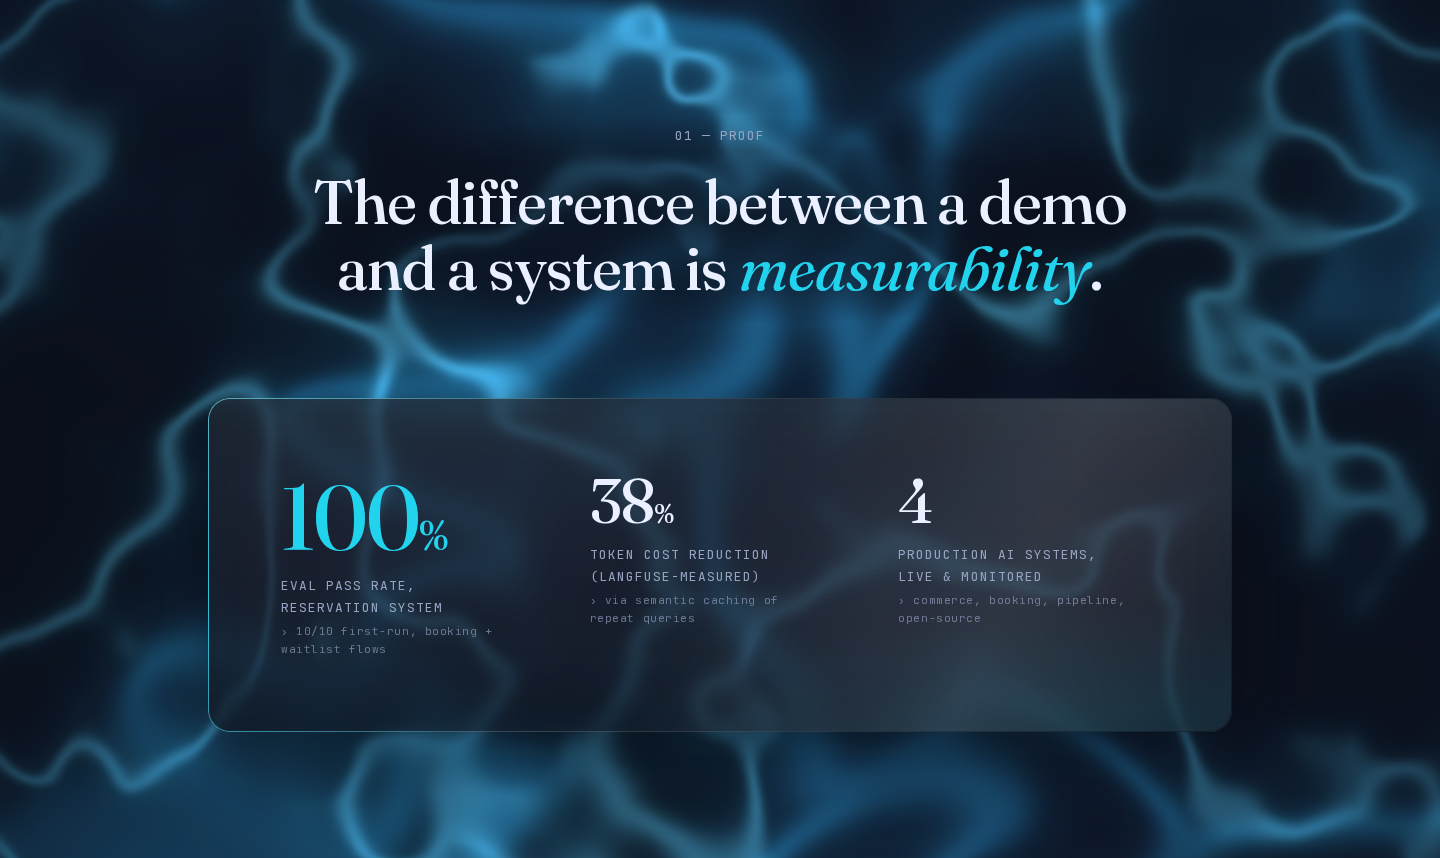
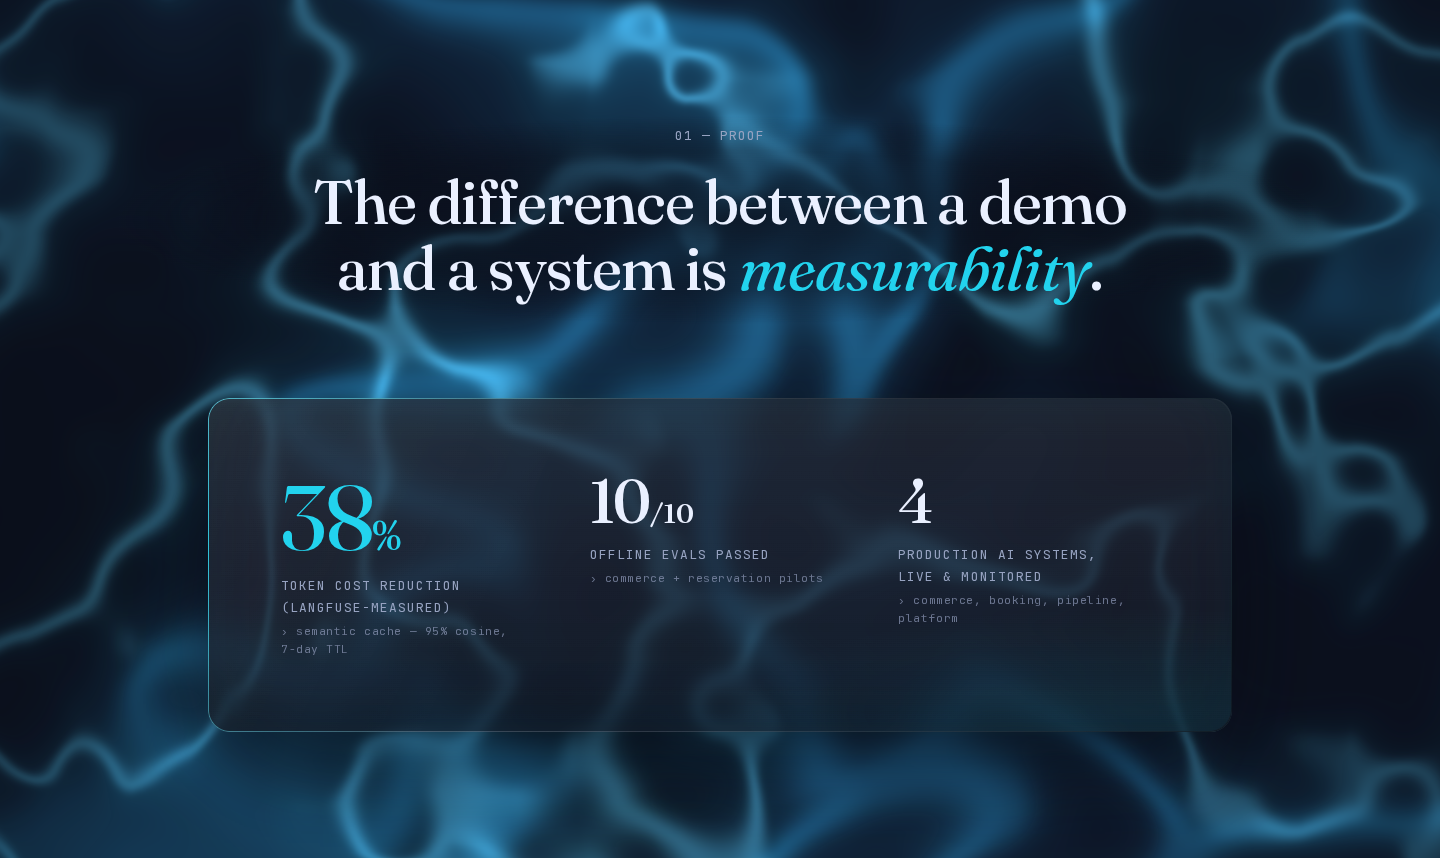
content(portfolio-dark): apply vault-approved copy — stack, work, proof, about
All defensible facts, generic names, no unverifiable numbers.

- STACK: expanded 5 rows -> 8 grouped rows (Languages / AI & RAG /
  Backend / Data & infra / Observability / Automation / Frontend /
  DevOps) with the substantial tools; dropped tiny utility libs and the
  "explored" tier. Claude + Langfuse stay the two cyan keystones.
- WORK: enriched each card with real specs, framed the two client cards
  as pilots. Card 1 metric -> "10/10 offline eval · Langfuse-traced"
  (no %), card 2 -> "10/10 offline eval · 0.646 avg retrieval" (10/10
  not 100%), card 3 five-stage pipeline detail, card 4 reframed as
  "Platform & Shared Core" (solo monorepo + CI) -> "38% token cost
  reduction · ~7.7k LOC Python, solo".
- PROOF: 38% is now the cyan LEAD (strongest defensible number);
  100% -> "10/10 offline evals passed" (no eval %); 4 production
  systems kept; 78/day already gone. Count-up handles 10 + "/10" suffix.
- ABOUT: bio now states CS student in Berlin, full-stack solo (Linux +
  Docker -> RAG/eval -> animated frontend), eval-first, multilingual
  interfaces (EN/DE/Urdu). Confident, no overclaiming.

Also removed an unused ScrollTrigger import in DarkAbout.

Verified: proof/work/stack/about recaptured 1440 + 375, 0 overflow,
0 console errors, tsc + eslint clean.

Changed region(s): [[0.1875, 0.5455, 0.3125, 0.7576], [0.4062, 0.6364, 0.5312, 0.7273], [0.4062, 0.5455, 0.5, 0.6061]]

diff --git a/src/components/portfolio-dark/DarkWork.tsx b/src/components/portfolio-dark/DarkWork.tsx
@@ -16,16 +16,15 @@ type CaseStudy = {
   link?: { label: string; href: string };
 };
 
-// VERIFY: humanized copy below supplied by Sherry (2026-07-09) — confirm
-// wording reads true before any public deploy.
+// Vault-approved copy (2026-07-12): defensible facts, generic names.
 const CASES: CaseStudy[] = [
   {
     index: "01",
     title: "Multilingual RAG Commerce Agent",
-    meta: "Private client · Commerce",
+    meta: "Client pilot · Commerce",
     description:
-      "The hard part was answering accurately across English, Urdu, and Roman Urdu from one knowledge base — a hybrid RAG pipeline with semantic caching, every response traced in Langfuse.",
-    metric: "38% lower cost per message · full observability",
+      "A WhatsApp sales agent on FastAPI with an HMAC-verified webhook, answering over a product catalog through RAG. A semantic cache (95% cosine, 7-day TTL + LRU) cuts repeat cost, every response is cost-traced in Langfuse, and it ships behind eval gates in CI.",
+    metric: "10/10 offline eval · Langfuse-traced",
     metricAccent: true,
     stack: ["Python", "FastAPI", "ChromaDB", "Claude", "Langfuse"],
     demo: "rag-commerce-agent",
@@ -33,10 +32,10 @@ const CASES: CaseStudy[] = [
   {
     index: "02",
     title: "Reservation System",
-    meta: "Hospitality · Booking platform",
+    meta: "Client pilot · Hospitality",
     description:
-      "Restaurants lose bookings after hours and to no-shows — this WhatsApp agent takes reservations and runs a waitlist 24/7, the full flow verified before launch.",
-    metric: "100% first-run eval",
+      "A booking agent running live under PM2 — RAG with a semantic cache and conversation memory, grounded in the actual menu so it never invents dishes. It takes reservations and runs a waitlist end to end.",
+    metric: "10/10 offline eval · 0.646 avg retrieval",
     metricAccent: true,
     stack: ["Python", "FastAPI", "Supabase", "WhatsApp Cloud API"],
     demo: "reservation-system",
@@ -46,21 +45,21 @@ const CASES: CaseStudy[] = [
     title: "Autonomous Agent Pipeline",
     meta: "Self-built · Automation",
     description:
-      "I was filtering opportunities by hand every day, so I automated the whole loop — scrape, score, generate, track, notify — running on its own each morning.",
+      "A five-stage pipeline that runs itself every morning: scrape sources (Adzuna, Arbeitnow, Firecrawl), score by weighted fit, draft cover letters with Claude, dedupe in Supabase, and send a Telegram digest — on cron, with graceful degradation when a source is down.",
     metric: "Runs daily · zero human input",
     metricAccent: true,
-    stack: ["Python", "Claude", "Supabase", "cron"],
+    stack: ["Python", "Claude", "Supabase", "Firecrawl", "cron"],
     demo: "agent-pipeline",
   },
   {
     index: "04",
-    title: "Open-Source RAG Reference",
-    meta: "Public · Reference architecture",
+    title: "Platform & Shared Core",
+    meta: "Solo build · Monorepo",
     description:
-      "An anonymized version of the commerce agent — same RAG, caching, and eval patterns, public and inspectable, with no client data.",
-    metric: "Public reference",
+      "The platform underneath the pilots: a solo monorepo with a shared core — retrieval, caching, and eval gates — reused across agents, guarded by CI on every push (lint, tests, eval gates, gitleaks).",
+    metric: "38% token cost reduction · ~7.7k LOC Python, solo",
     metricAccent: false, // this row's single accent is the outbound link
-    stack: ["Python", "ChromaDB", "FastAPI"],
+    stack: ["Python", "FastAPI", "ChromaDB", "GitHub Actions"],
     demo: "rag-reference",
     link: { label: "GitHub", href: "https://github.com/sherrybuilds-studio" },
   },

diff --git a/src/components/portfolio-dark/DarkAbout.tsx b/src/components/portfolio-dark/DarkAbout.tsx
@@ -1,7 +1,7 @@
 "use client";
 
 import { useRef } from "react";
-import { gsap, ScrollTrigger, SplitText, useGSAP, EASE, STAGGER } from "@/lib/gsap";
+import { gsap, SplitText, useGSAP, EASE, STAGGER } from "@/lib/gsap";
 
 const CURRENTLY = [
   { label: "Age", value: "22" },
@@ -153,29 +153,28 @@ export default function DarkAbout() {
                   fontWeight: 420,
                 }}
               >
-                I&apos;m Shehryar — a 22-year-old AI Automation Engineer and
-                full-stack developer based in Berlin. I build LLM systems for
-                production: retrieval that returns the right thing, agents
-                that run unattended, and the observability to keep them
-                accountable.
+                I&apos;m Shehryar — a 22-year-old CS student in Berlin who
+                builds production AI systems: retrieval that returns the right
+                thing, agents that run unattended, and the observability to
+                keep them accountable.
               </p>
               <p
                 className="about-item mt-[var(--space-6)]"
                 style={{ fontSize: "var(--step-1)", lineHeight: 1.7, color: "var(--text)", fontWeight: 420 }}
               >
-                I&apos;m not only an AI engineer. I&apos;m comfortable across
-                the whole stack — Python and FastAPI on the backend, TypeScript
-                and Next.js on the front, plus the infrastructure to deploy and
-                monitor it. If it needs a web app or an interface, I can build
-                that too. (This site is one of them.)
+                I design, build, and operate the whole stack solo — from Linux
+                and Docker on the server, through the RAG and eval layer, to
+                the animated frontend you&apos;re reading now. When a product
+                needs multilingual interfaces (English, German, Urdu), I build
+                those too.
               </p>
               <p
                 className="about-item mt-[var(--space-6)]"
                 style={{ fontSize: "var(--step-1)", lineHeight: 1.7, color: "var(--muted)" }}
               >
-                What I care about most is the part that separates a demo from a
-                real system: evaluation, tracing, and cost. I&apos;m currently
-                open to Werkstudent roles in Berlin.
+                I work eval-first — the part that separates a demo from a real
+                system is evaluation, tracing, and cost. I&apos;m currently open
+                to Werkstudent roles in Berlin.
               </p>
             </div>
 

diff --git a/src/components/portfolio-dark/DarkStack.tsx b/src/components/portfolio-dark/DarkStack.tsx
@@ -10,31 +10,74 @@ type Group = {
 
 const GROUPS: Group[] = [
   {
-    label: "Languages & frameworks",
-    tools: ["Python", "FastAPI", "TypeScript", "Next.js"],
-    duration: 40,
+    label: "Languages",
+    tools: ["Python", "TypeScript", "SQL", "Bash"],
+    duration: 38,
   },
   {
     label: "AI & RAG",
-    tools: ["Claude", "ChromaDB", "semantic caching", "RAG pipelines"],
-    duration: 44,
+    tools: [
+      "Claude",
+      "OpenAI SDK",
+      "OpenRouter",
+      "ChromaDB",
+      "embeddings (MiniLM)",
+      "hybrid search",
+      "semantic caching",
+      "eval gates",
+    ],
+    duration: 52,
     reverse: true,
+  },
+  {
+    label: "Backend",
+    tools: ["FastAPI", "Flask", "Pydantic", "Uvicorn", "slowapi"],
+    duration: 40,
   },
   {
     label: "Data & infra",
-    tools: ["Supabase", "PostgreSQL", "Docker", "PM2", "Cloudflare", "Caddy", "Tailscale", "Backblaze"],
-    duration: 42,
-  },
-  {
-    label: "Observability",
-    tools: ["Langfuse", "evaluation suites"],
-    duration: 32,
+    tools: [
+      "PostgreSQL",
+      "Supabase",
+      "Redis",
+      "ClickHouse",
+      "Docker",
+      "Caddy",
+      "Cloudflare",
+      "PM2",
+      "cron",
+    ],
+    duration: 54,
     reverse: true,
   },
   {
-    label: "Automation",
-    tools: ["n8n", "WhatsApp Cloud API", "cron"],
+    label: "Observability",
+    tools: ["Langfuse", "OpenTelemetry", "structured logging"],
     duration: 36,
+  },
+  {
+    label: "Automation",
+    tools: [
+      "n8n",
+      "WhatsApp Cloud API",
+      "Telegram Bot API",
+      "Playwright",
+      "Firecrawl",
+      "Resend",
+    ],
+    duration: 48,
+    reverse: true,
+  },
+  {
+    label: "Frontend",
+    tools: ["Next.js", "React", "GSAP", "Lenis", "Three.js/R3F", "shadcn/ui", "Zod"],
+    duration: 46,
+  },
+  {
+    label: "DevOps",
+    tools: ["Git", "GitHub Actions CI", "gitleaks", "pytest", "ruff"],
+    duration: 42,
+    reverse: true,
   },
 ];
 

diff --git a/src/components/portfolio-dark/DarkProof.tsx b/src/components/portfolio-dark/DarkProof.tsx
@@ -14,22 +14,22 @@ type Metric = {
 
 const METRICS: Metric[] = [
   {
-    value: "100",
-    suffix: "%",
-    caption: "Eval pass rate, reservation system",
-    context: "10/10 first-run, booking + waitlist flows",
-    accent: true, // the lead — cyan + largest
-  },
-  {
     value: "38",
     suffix: "%",
     caption: "Token cost reduction (Langfuse-measured)",
-    context: "via semantic caching of repeat queries",
+    context: "semantic cache — 95% cosine, 7-day TTL",
+    accent: true, // the lead — cyan + largest, strongest defensible number
+  },
+  {
+    value: "10",
+    suffix: "/10",
+    caption: "Offline evals passed",
+    context: "commerce + reservation pilots",
   },
   {
     value: "4",
     caption: "Production AI systems, live & monitored",
-    context: "commerce, booking, pipeline, open-source",
+    context: "commerce, booking, pipeline, platform",
   },
 ];
 
